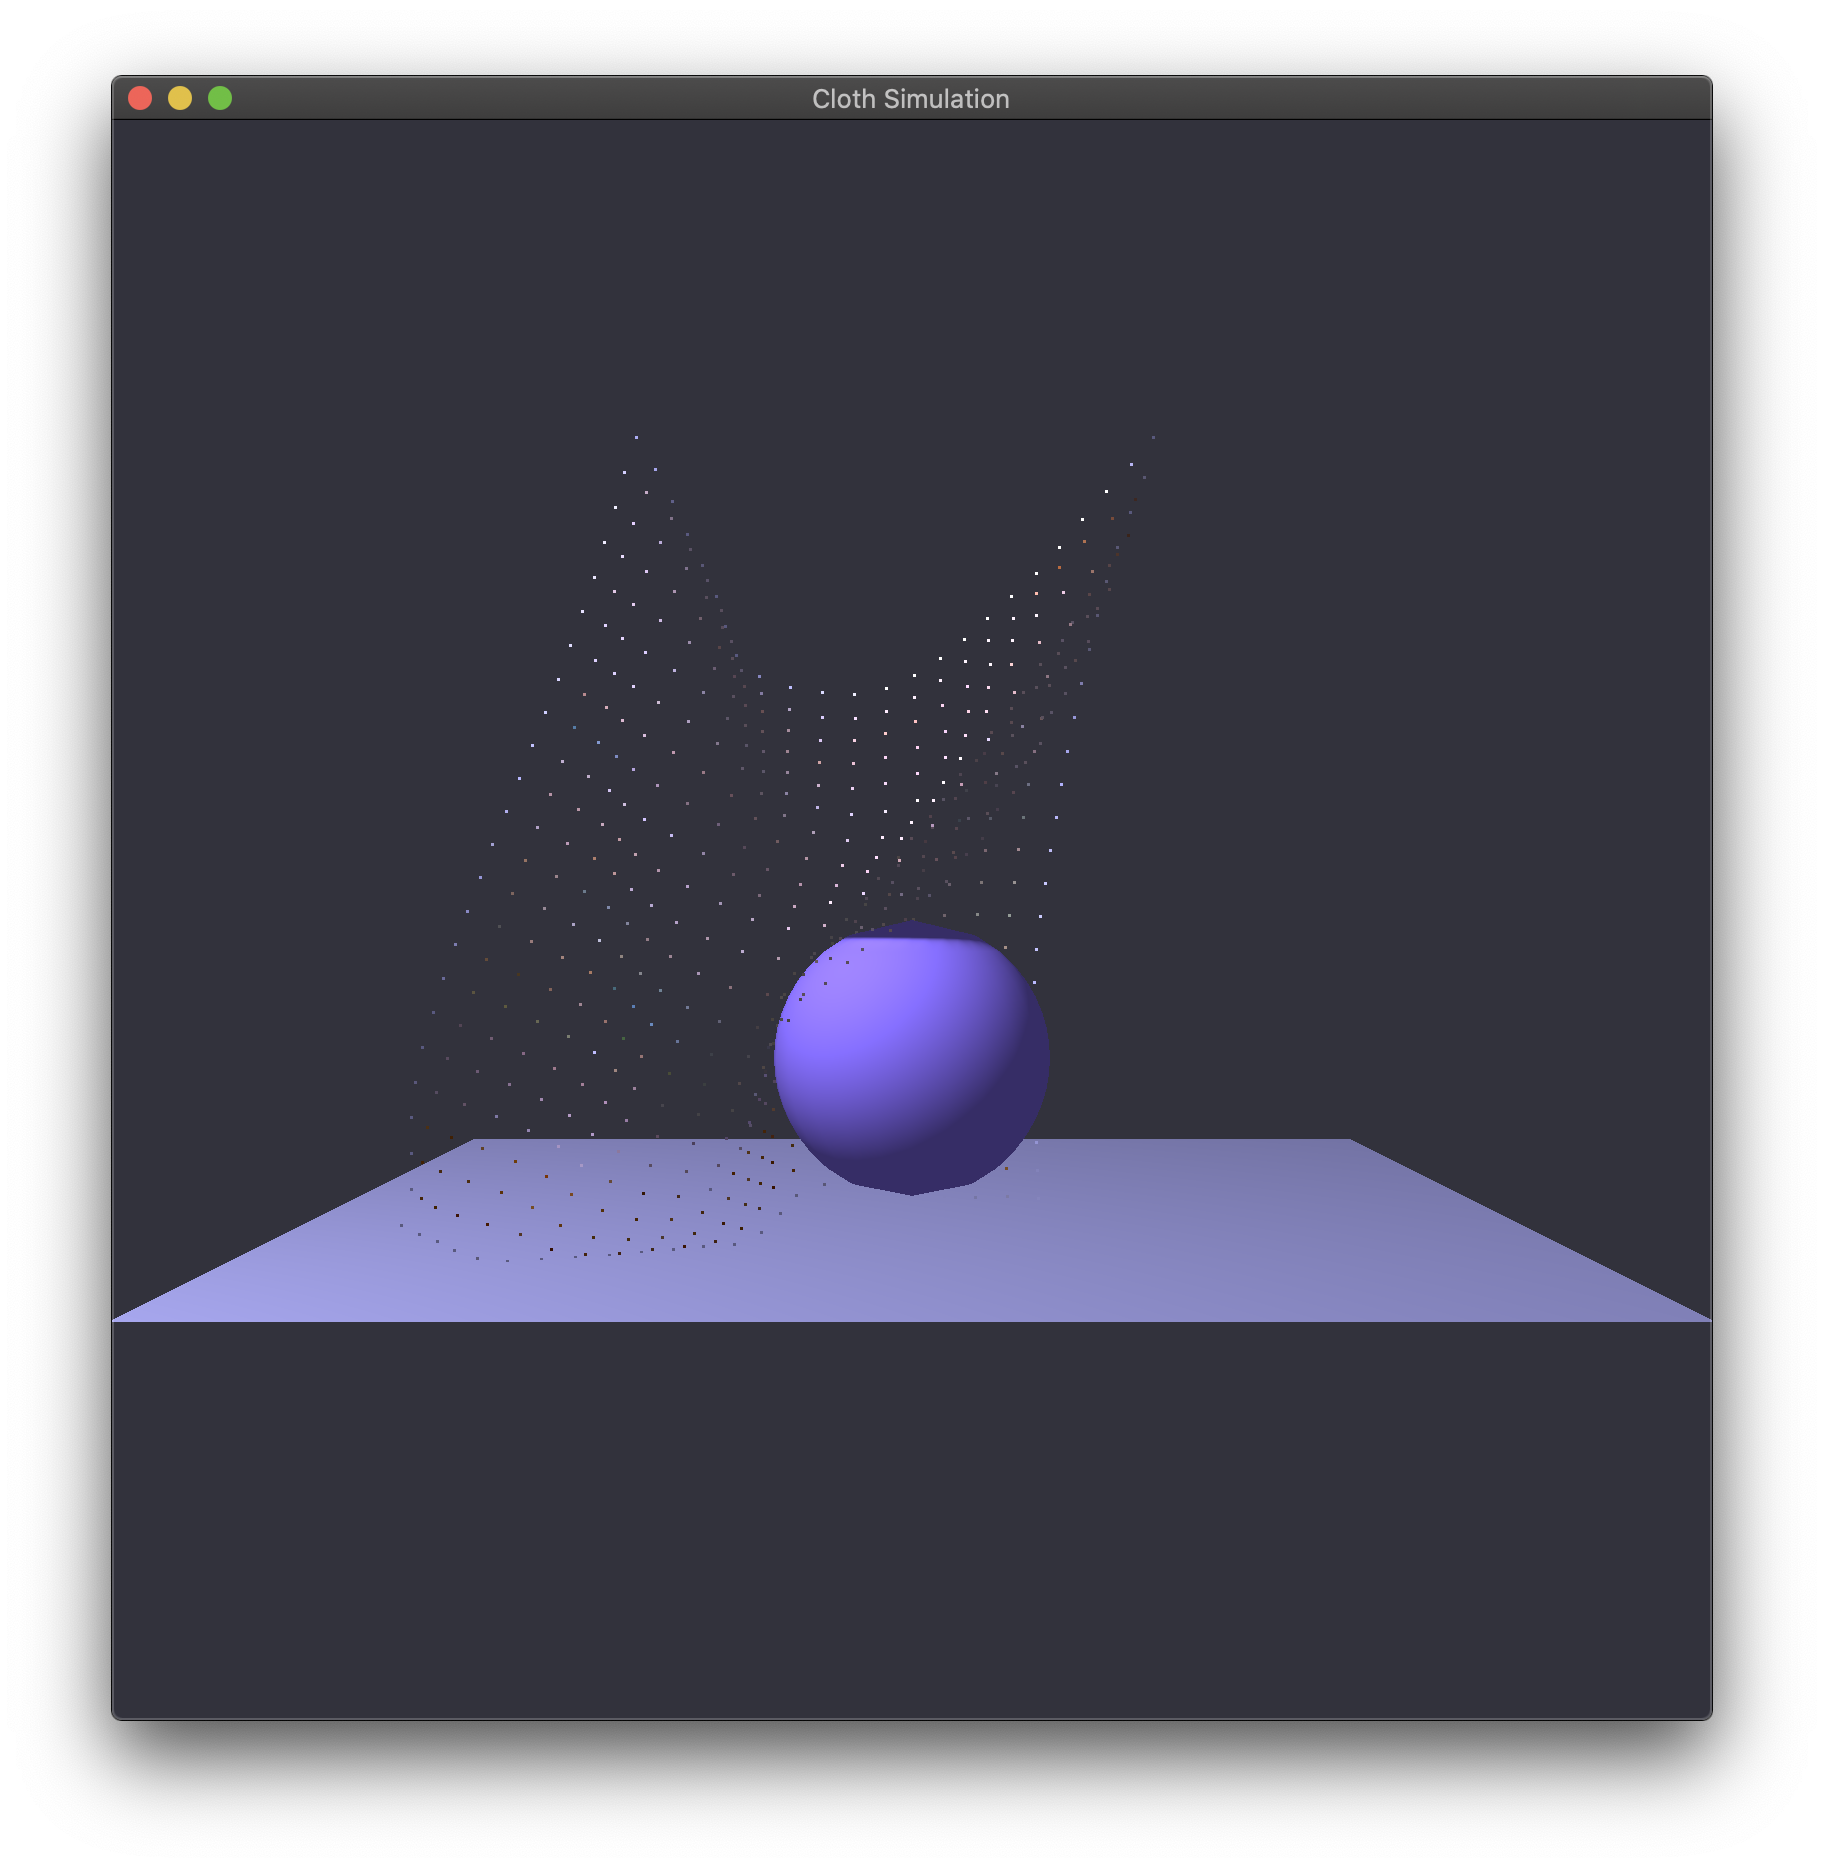
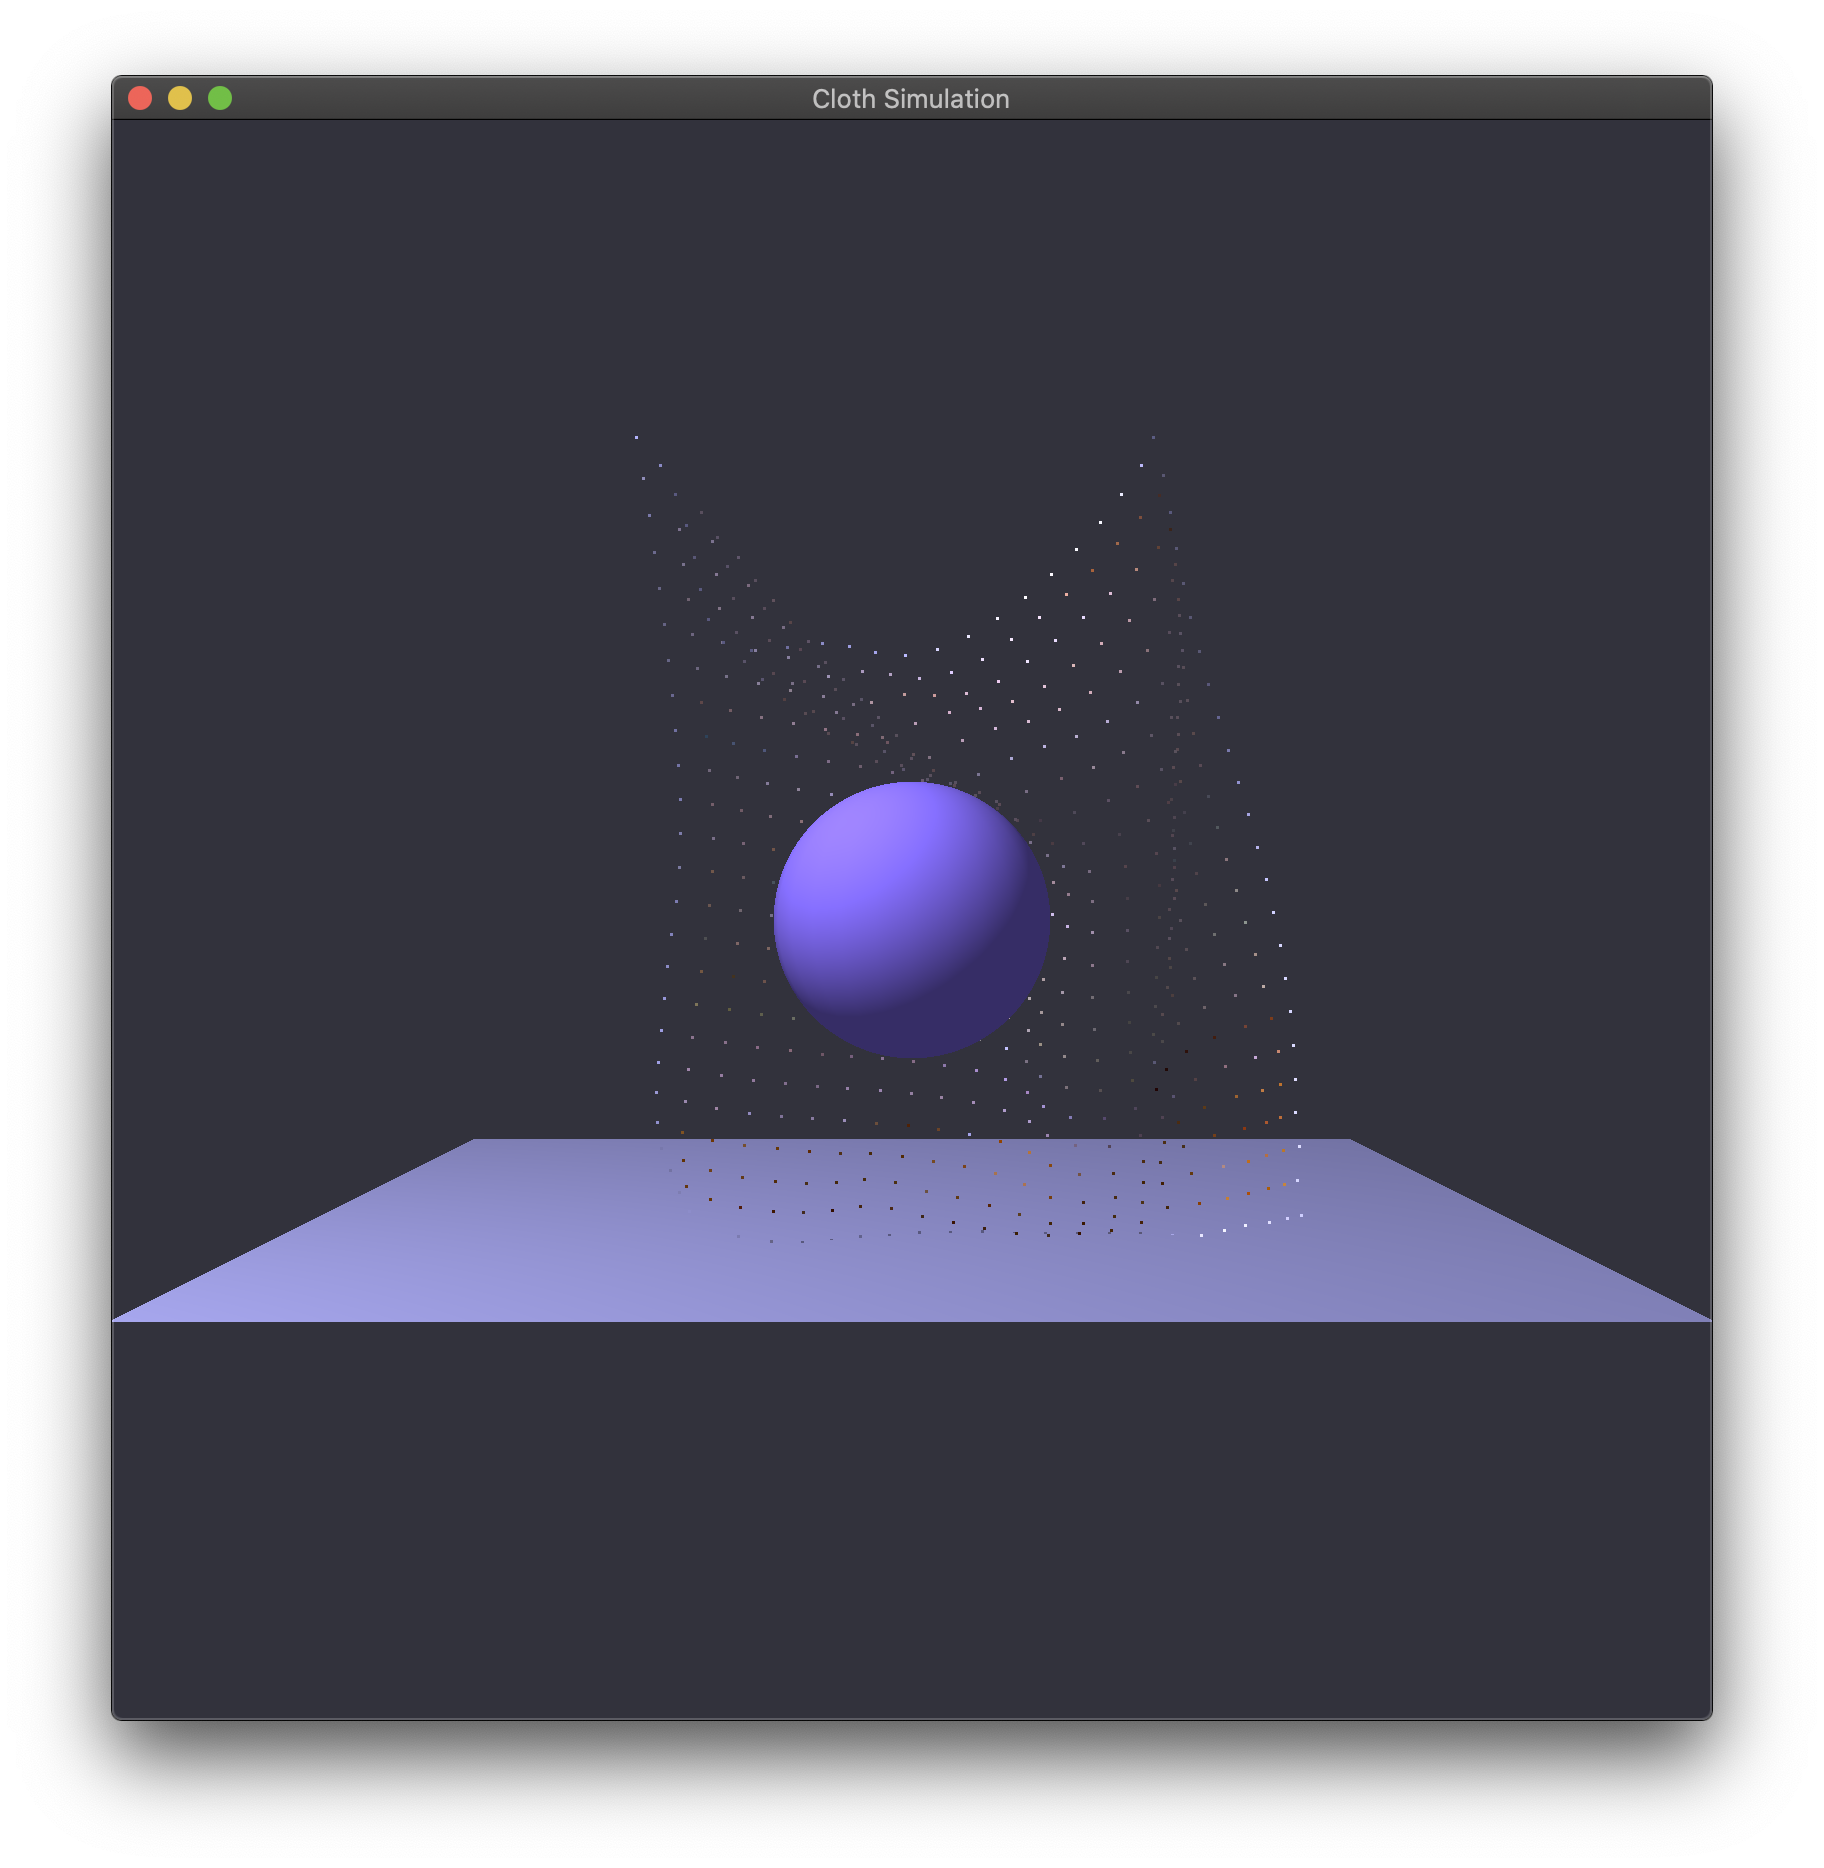
Fixed bugs of sphere rendering

Changed region(s): [[0.4062, 0.4036, 0.5938, 0.652]]

diff --git a/ClothSimulation/Headers/Rigid.h b/ClothSimulation/Headers/Rigid.h
@@ -40,7 +40,7 @@ struct Ground
         vertexes.push_back(new Vertex(Vec3(width, 0.0, -height)));
         
         for (int i = 0; i < vertexes.size(); i ++) {
-            vertexes[i]->normal = Vec3(0.0, 1.0, 0.0);
+            vertexes[i]->normal = Vec3(0.0, 1.0, 0.0); // It's not neccessery to normalize here
             
             // Debug info
             printf("Ground[%d]: (%f, %f, %f) - (%f, %f, %f)\n", i, vertexes[i]->position.x, vertexes[i]->position.y, vertexes[i]->position.z, vertexes[i]->normal.x, vertexes[i]->normal.y, vertexes[i]->normal.z);
@@ -59,7 +59,7 @@ class Sphere
 {
 public:
     const int meridianNum = 24;
-    const int parallelNum = 17;
+    const int parallelNum = 250;
     
     int radius;
     
@@ -113,6 +113,10 @@ public:
             v2->normal += normal;
             v3->normal += normal;
         }
+        
+        for (int i = 0; i < vertexes.size(); i ++) {
+            vertexes[i]->normal.normalize();
+        }
     }
     
     void init() // Initialize vertexes coord and slice faces
@@ -142,8 +146,8 @@ public:
         /** Slice faces **/
         // Top cycle
         for (int i = 0; i < meridianNum; i ++) {
-            faces.push_back(getTop());                                      //   *   //
-            faces.push_back(getVertex(0, i));                               //  / \  //
+            faces.push_back(getVertex(0, i));                               //   *   //
+            faces.push_back(getTop());                                      //  / \  //
             faces.push_back(getVertex(0, (i+1)%meridianNum));               // *---* //
         }
         // Middle cycles

diff --git a/ClothSimulation/Headers/Cloth.h b/ClothSimulation/Headers/Cloth.h
@@ -150,6 +150,10 @@ public:
             n2->normal += normal;
             n3->normal += normal;
         }
+        
+        for (int i = 0; i < nodes.size(); i ++) {
+            nodes[i]->normal.normalize();
+        }
 	}
 	
 	void addForce(Vec3 f)
